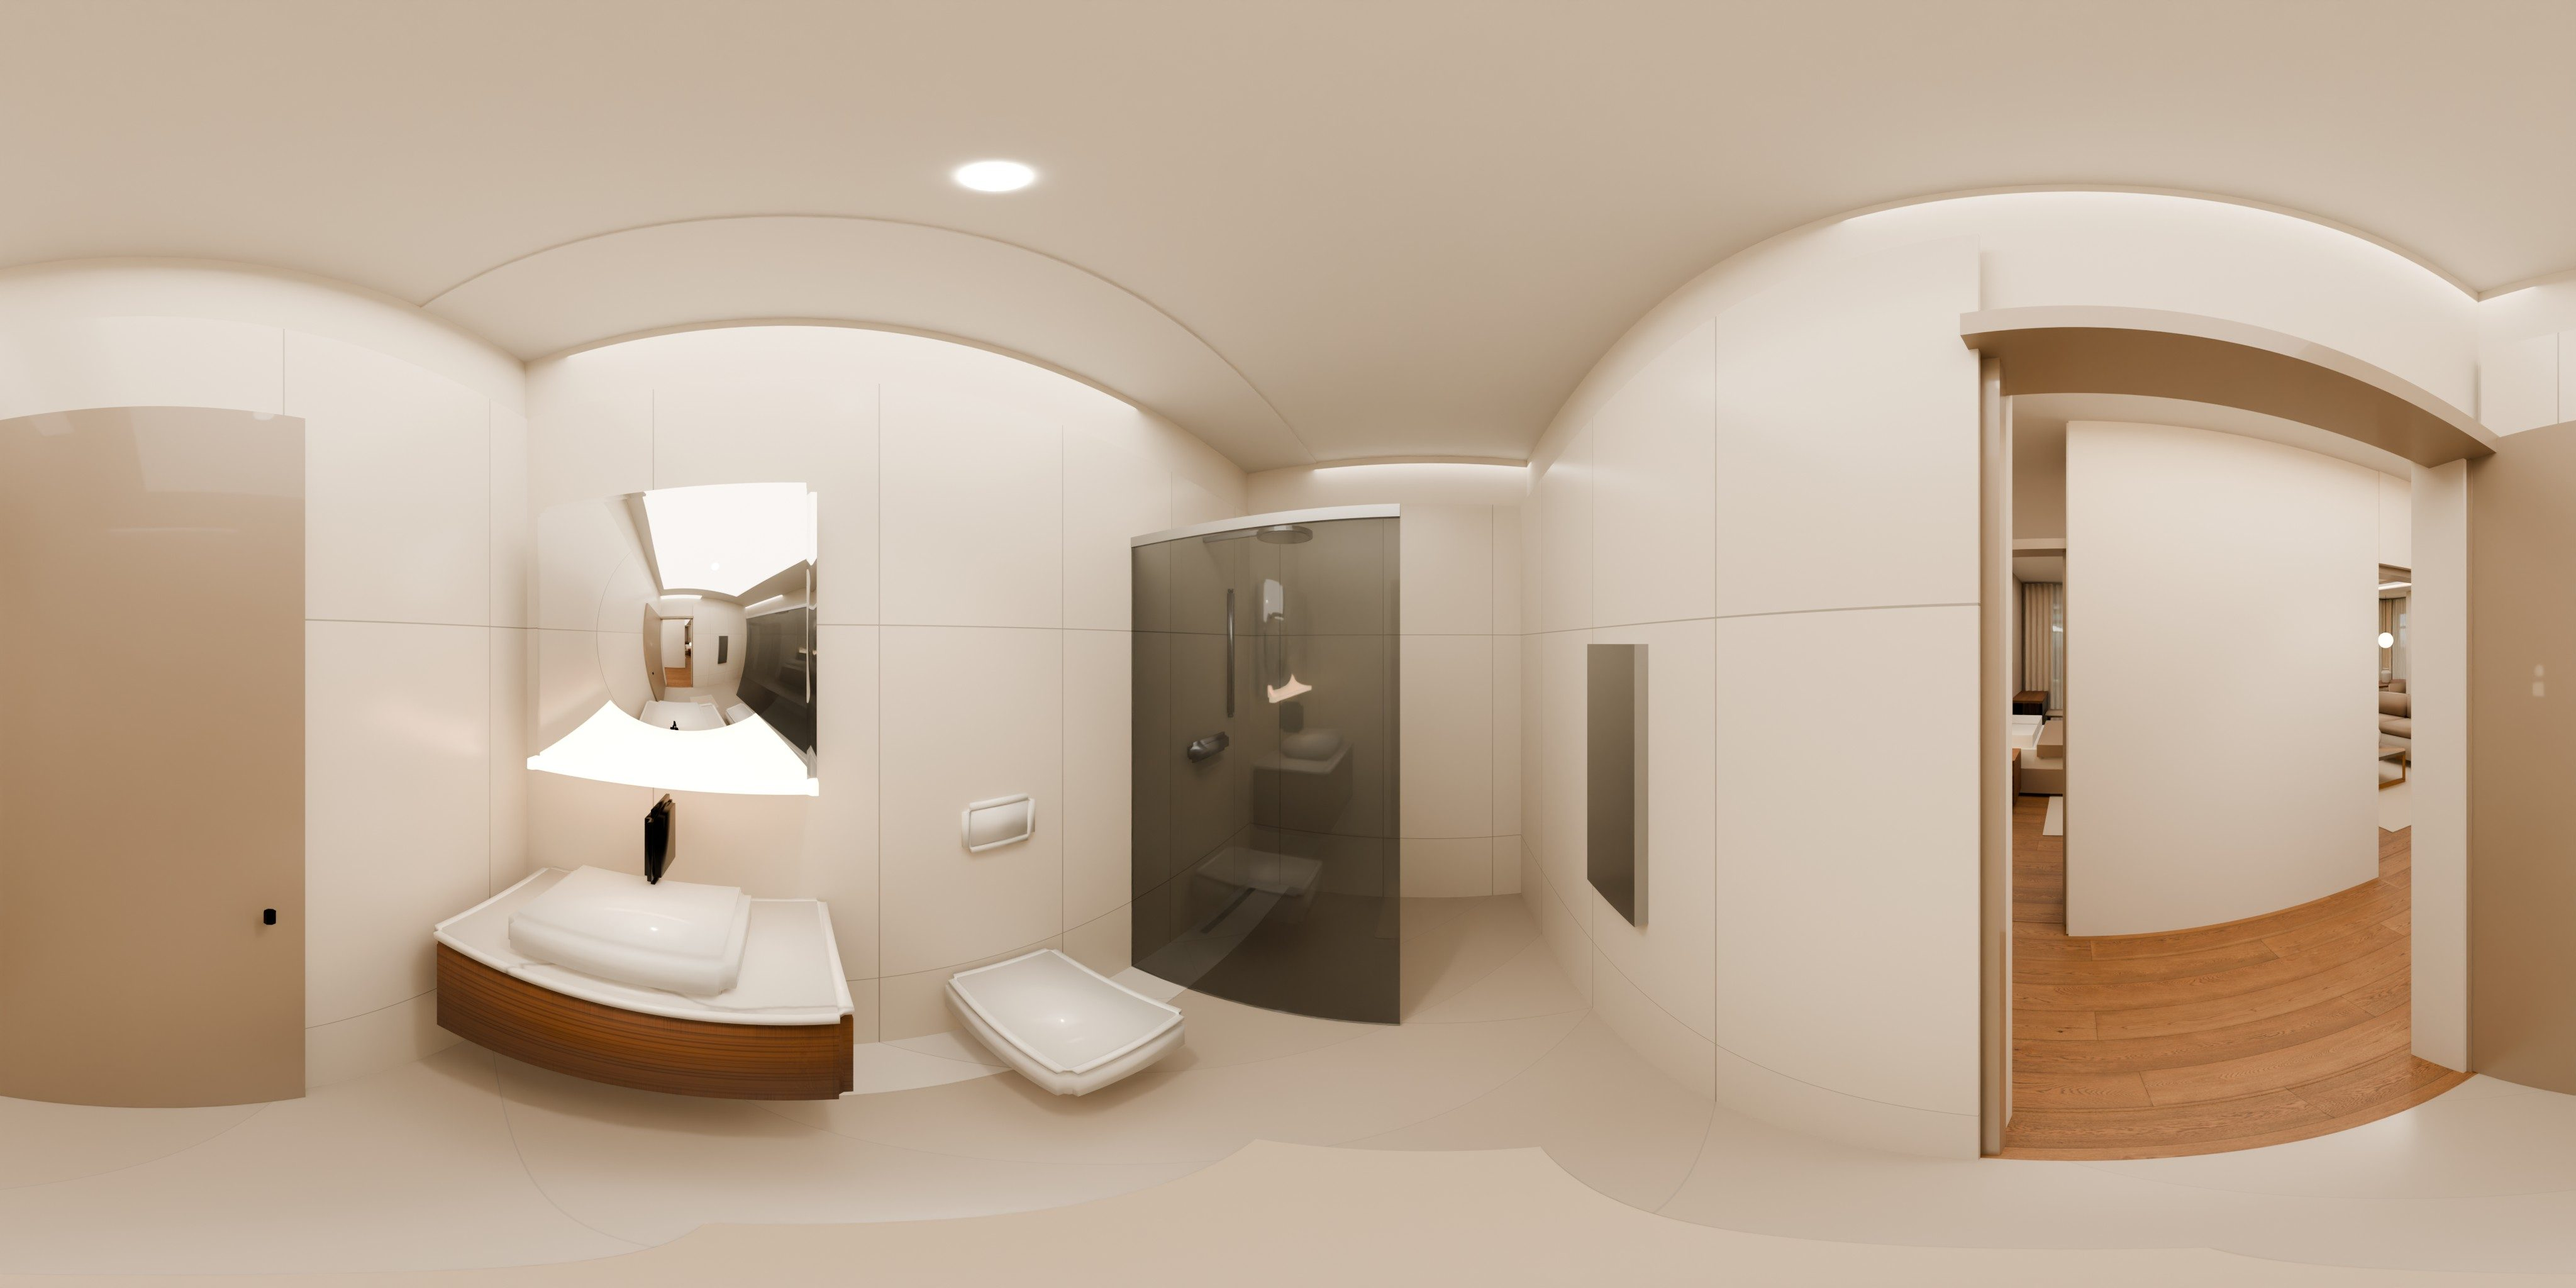
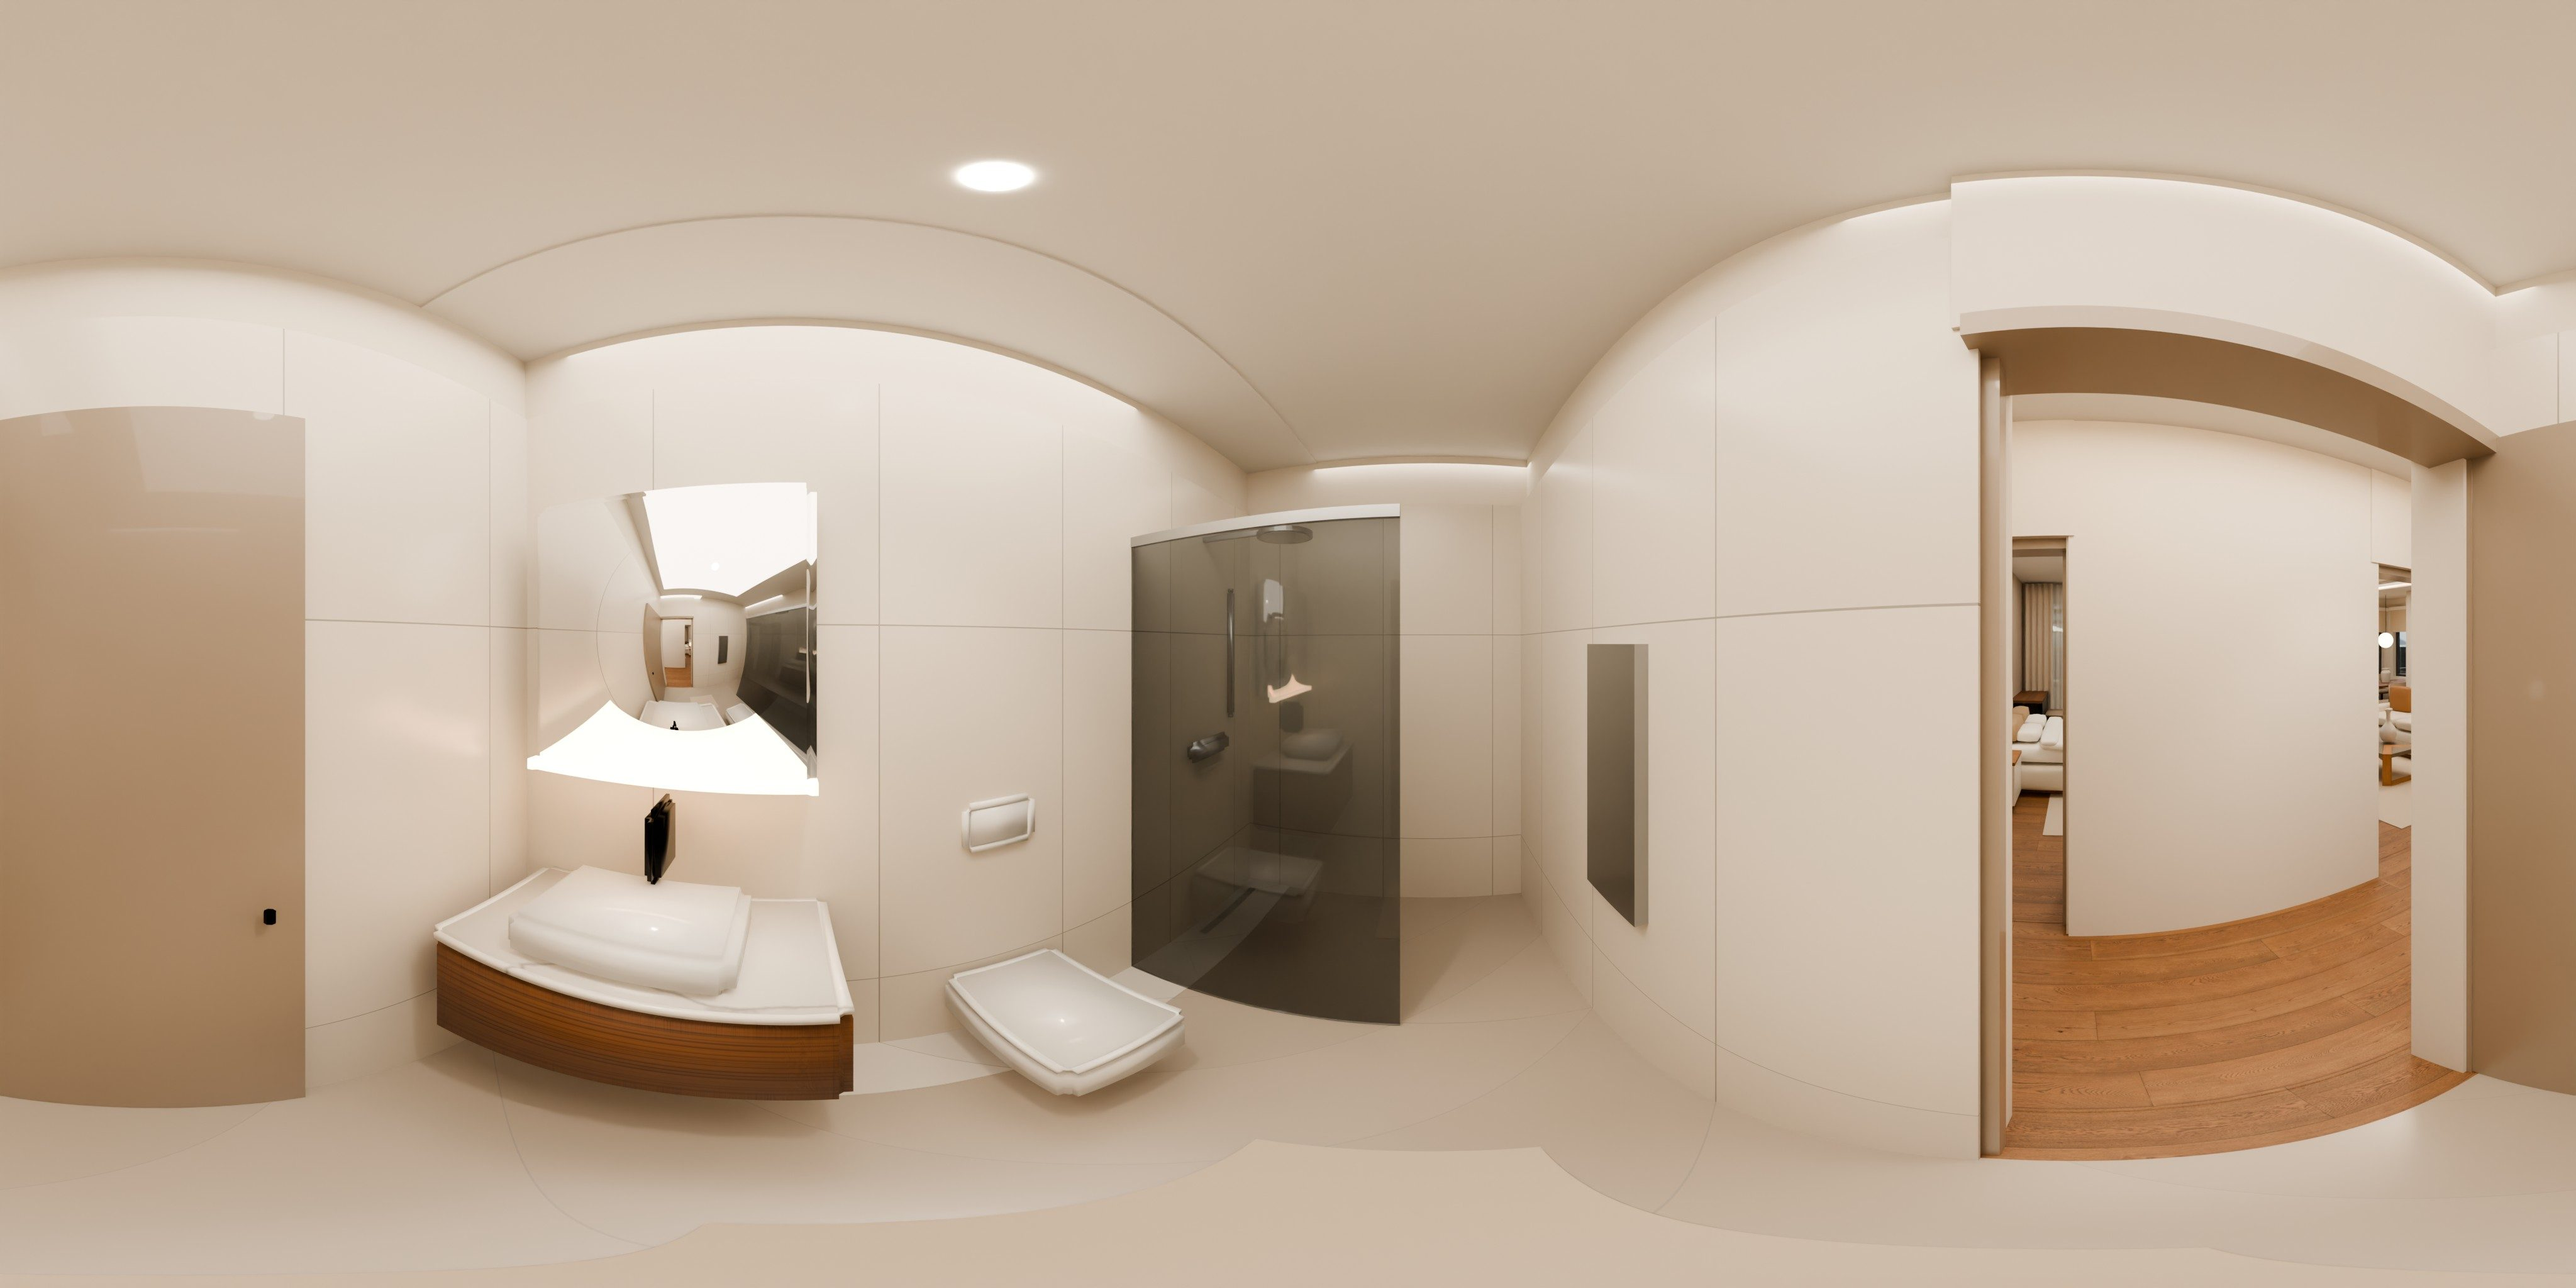
6 no 4. tur: döşemeli yatak, beyaz-meşe dolap/komodin, bukle kanepeler, tam lentolar, mutfak masası 4 kişi, bej üst dolaplar, salon tablosu, stor perde, ebeveyn banyosu, kapıda geçiş okları

diff --git a/satilik/tur/index.html b/satilik/tur/index.html
@@ -71,7 +71,7 @@ h1 { margin: 0; font-family: var(--font-baslik); font-stretch: 82%; font-weight:
 <script src="https://cdnjs.cloudflare.com/ajax/libs/three.js/r128/three.min.js"></script>
 <script>
 (function () {
-var D = [{"id": "01_salon", "ad": "Salon", "kat": "Daire", "x": -11.9, "y": -6.8, "z": 4.75, "yon": 175, "git": [1, 3, 7, 8], "bak": 60}, {"id": "02_yemek", "ad": "Yemek alanı", "kat": "Daire", "x": -14.1, "y": -8.549999999999999, "z": 4.75, "yon": 180, "git": [0, 7, 8]}, {"id": "03_mutfak", "ad": "Mutfak", "kat": "Daire", "x": -13.0, "y": -2.8499999999999996, "z": 4.75, "yon": 150, "git": [3, 7]}, {"id": "04_hol", "ad": "Hol", "kat": "Daire", "x": -11.2, "y": -3.3, "z": 4.75, "yon": 90, "git": [0, 2, 4, 5, 6, 9], "ok": {"05_ebeveyn": [-8.0, -3.3], "06_yatak2": [-8.9, -4.25]}}, {"id": "05_ebeveyn", "ad": "Ebeveyn yatak odası", "kat": "Daire", "x": -7.35, "y": -8.549999999999999, "z": 4.75, "yon": 70, "git": [3]}, {"id": "06_yatak2", "ad": "Yatak odası", "kat": "Daire", "x": -9.65, "y": -5.25, "z": 4.75, "yon": 290, "git": [3]}, {"id": "07_banyo", "ad": "Banyo", "kat": "Daire", "x": -9.4, "y": -2.0999999999999996, "z": 4.75, "yon": 20, "git": [3]}, {"id": "08_balkon", "ad": "Balkon", "kat": "Daire", "x": -15.95, "y": -5.449999999999999, "z": 4.75, "yon": 180, "git": [0, 1, 2]}, {"id": "09_bahce", "ad": "Özel bahçe", "kat": "Daire", "x": -12.15, "y": -13.25, "z": 4.6, "yon": 90, "git": [0, 1]}, {"id": "10_koridor", "ad": "Kat holü · 6 no kapısı", "kat": "Apartman", "x": -11.4, "y": 0.0, "z": 4.75, "yon": 0, "git": [3, 10]}, {"id": "11_asansor", "ad": "Asansör ve merdiven", "kat": "Apartman", "x": -3.75, "y": 0.0, "z": 4.75, "yon": 270, "git": [9]}]; var GECE_VAR = false; var mod = "gunduz";
+var D = [{"id": "01_salon", "ad": "Salon", "kat": "Daire", "x": -11.9, "y": -6.8, "z": 4.75, "yon": 175, "git": [1, 3, 7, 8], "bak": 60, "ok": {"04_hol": [-11.515, -4.08], "08_balkon": [-15.0, -5.449999999999999], "09_bahce": [-12.9, -9.7]}}, {"id": "02_yemek", "ad": "Yemek alanı", "kat": "Daire", "x": -14.1, "y": -8.549999999999999, "z": 4.75, "yon": 180, "git": [0, 7, 8], "ok": {"08_balkon": [-15.0, -5.449999999999999], "09_bahce": [-12.9, -9.7]}}, {"id": "03_mutfak", "ad": "Mutfak", "kat": "Daire", "x": -12.85, "y": -1.6999999999999993, "z": 4.75, "yon": 200, "git": [3, 7], "ok": {"04_hol": [-12.16, -2.96], "08_balkon": [-16.08, -3.55]}}, {"id": "04_hol", "ad": "Hol", "kat": "Daire", "x": -11.2, "y": -3.3, "z": 4.75, "yon": 90, "git": [0, 2, 4, 5, 6, 9], "ok": {"01_salon": [-11.515, -4.08], "03_mutfak": [-12.16, -2.96], "06_yatak2": [-8.91, -4.08], "07_banyo": [-9.75, -2.6499999999999995], "10_koridor": [-11.43, -1.3699999999999992], "05_ebeveyn": [-8.28, -3.2799999999999994]}}, {"id": "05_ebeveyn", "ad": "Ebeveyn yatak odası", "kat": "Daire", "x": -7.35, "y": -8.549999999999999, "z": 4.75, "yon": 70, "git": [3, 11], "ok": {"12_ebbanyo": [-6.49, -3.88], "04_hol": [-7.699999999999999, -4.05]}}, {"id": "06_yatak2", "ad": "Yatak odası", "kat": "Daire", "x": -9.65, "y": -5.25, "z": 4.75, "yon": 290, "git": [3], "ok": {"04_hol": [-8.91, -4.08]}}, {"id": "07_banyo", "ad": "Banyo", "kat": "Daire", "x": -9.4, "y": -2.0999999999999996, "z": 4.75, "yon": 20, "git": [3], "ok": {"04_hol": [-9.75, -2.6499999999999995]}}, {"id": "08_balkon", "ad": "Balkon", "kat": "Daire", "x": -15.95, "y": -5.449999999999999, "z": 4.75, "yon": 180, "git": [0, 1, 2], "ok": {"01_salon": [-15.0, -5.449999999999999], "02_yemek": [-15.0, -5.449999999999999], "03_mutfak": [-16.08, -3.55]}}, {"id": "09_bahce", "ad": "Özel bahçe", "kat": "Daire", "x": -12.15, "y": -13.25, "z": 4.6, "yon": 90, "git": [0, 1], "ok": {"01_salon": [-12.9, -9.7], "02_yemek": [-12.9, -9.7]}}, {"id": "10_koridor", "ad": "Kat holü · 6 no kapısı", "kat": "Apartman", "x": -11.4, "y": 0.0, "z": 4.75, "yon": 0, "git": [3, 10], "ok": {"04_hol": [-11.43, -1.3699999999999992]}}, {"id": "11_asansor", "ad": "Asansör ve merdiven", "kat": "Apartman", "x": -3.75, "y": 0.0, "z": 4.75, "yon": 270, "git": [9]}, {"id": "12_ebbanyo", "ad": "Ebeveyn banyosu", "kat": "Apartman", "x": -6.4, "y": -3.0999999999999996, "z": 4.75, "yon": 90, "git": [4], "ok": {"05_ebeveyn": [-6.49, -3.88]}}]; var GECE_VAR = false; var mod = "gunduz";
 var kutu = document.getElementById("sahne");
 var renderer = new THREE.WebGLRenderer({ antialias: true });
 renderer.setPixelRatio(Math.min(window.devicePixelRatio || 1, 2));
